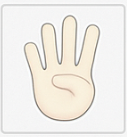
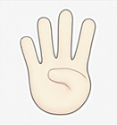
Basic UI tweaks

diff --git a/main.js b/main.js
@@ -147,6 +147,8 @@ HEADS.element.onclick = () => {
     gameSection.style.cssText = `
         box-shadow: 0px 0px 10px 2px rgb(81, 75, 75);
     `
+    startToss()
+
 }
 
 TAILS.element.onclick = () => {
@@ -174,35 +176,21 @@ TAILS.element.onclick = () => {
     gameSection.style.cssText = `
         box-shadow: 0px 0px 10px 2px rgb(81, 75, 75);
     `
-
 }
 
 
-
-function tossFunc() {
-    let tossResult = ""
-    let sum = 0;
-    for (let i = 0; i < moves.length; i++) {
+/*
+function notePmove(){
+    for (let i = 0; i < moves.length; i++){
         moves[i].icon.onclick = () => {
-            sum += moves[i].value
             throwButton.onclick = () => {
-                let botTossMove = createBotMove()
-                sum += botTossMove
-                if (sum % 2 == 0) {
-                    tossResult += "TAILS"
-                }
-                else {
-                    tossResult += "HEADS"
-                }
-                console.log(tossResult)
-
+                console.log(moves[i].value) 
             }
         }
     }
-
 }
 
-
+*/
 
 
 

diff --git a/styles.css b/styles.css
@@ -245,23 +245,25 @@ button {
 .BotThrowDisp {
     grid-area: 1 / 1 / 3 / 2;
     background-image: url(./images/fist.png);
-    background-size: contain;
+    background-size: cover;
     background-position: center;
     background-repeat: no-repeat;
     border-radius: 10px;
-    opacity: 0.6;
+    opacity: 0.7;
     scale: 0.8;
+    border-radius: 30%;
 }
 
 .PlayerThrowDisp {
     grid-area: 1 / 3 / 3 /-1;
     background-image: url(./images/fist2.png);
-    background-size: contain;
+    background-size: cover;
     background-position: center;
     background-repeat: no-repeat;
     border-radius: 10px;
-    opacity: 0.6;
+    opacity: 0.7;
     scale: 0.8;
+    border-radius: 30%;
 }
 
 .gameRunDisp {
